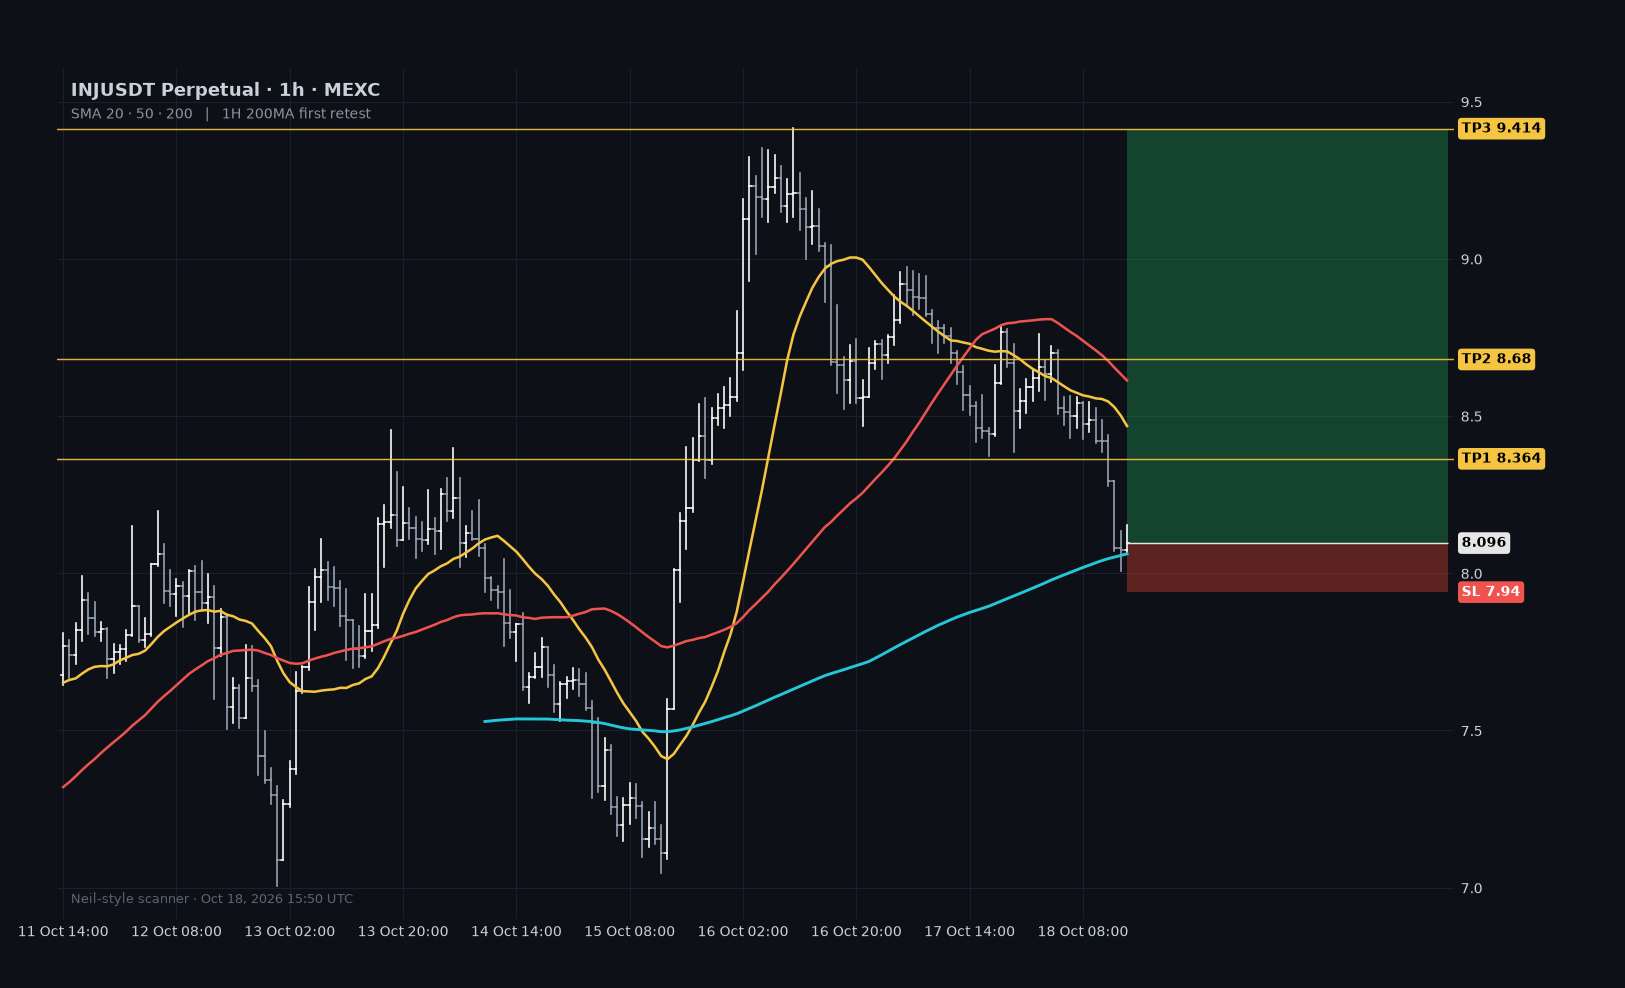
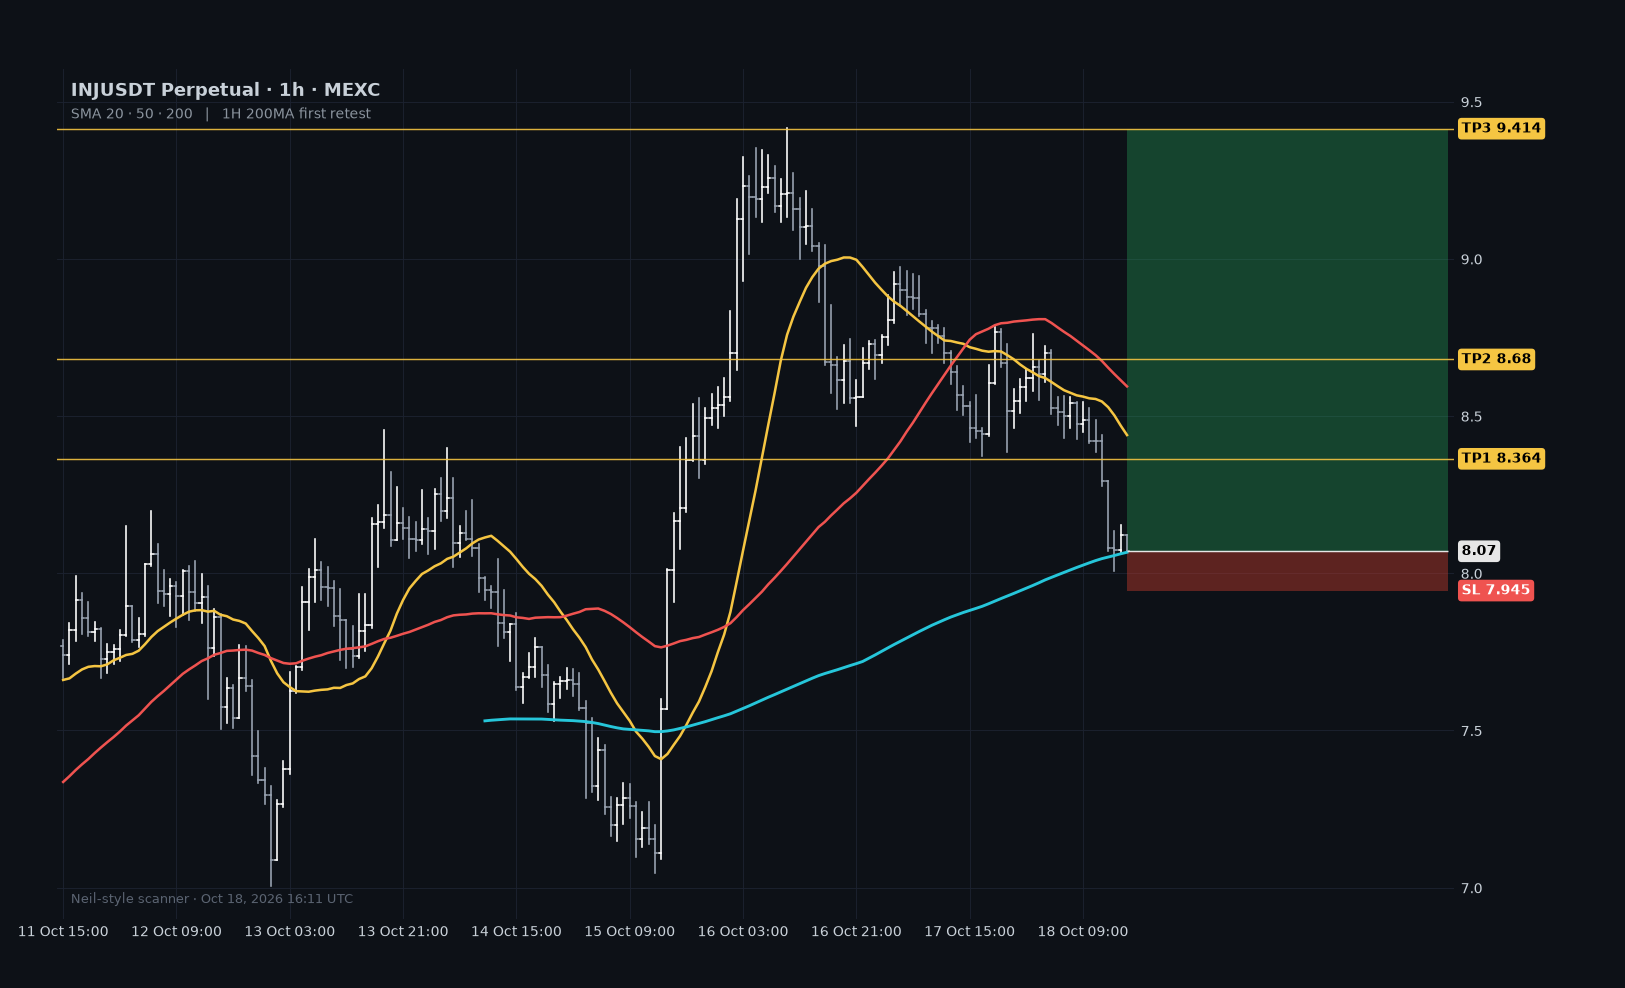
scan 2026-10-18 [skip ci]

diff --git a/output/report.md b/output/report.md
@@ -1,55 +1,53 @@
 # Neil-style setups — 2026-10-18
 
-**BTC context:** BTC chopping around its 4H MAs — no fresh breakdown, but keep size normal and stops honest. (3d -1.6%)
+**BTC context:** BTC chopping around its 4H MAs — no fresh breakdown, but keep size normal and stops honest. (3d -1.5%)
 
 Scanned 126 USDT perps; 7 raw setups; showing top 3.
 
-## 1. XMR — Daily range breakout  (score 7.9)
+## 1. XMR — Daily range breakout  (score 8.1)
 
-> Market long XMR here at CMP (581.23). No DCA, 4H close under 557.6 for stops, TPs above — TP1 634.9 (2.3R) · TP2 667.9 (3.7R) · TP3 700.9 (5.1R). Once TP1 hits, stops to BE. Daily range breakout — not missing this one, still looks good.
+> Market long XMR here at CMP (586.83). No DCA, 4H close under 557.6 for stops, TPs above — TP1 634.9 (1.6R) · TP2 680.3 (3.2R) · TP3 730 (4.9R). Once TP1 hits, stops to BE. Daily range breakout — not missing this one, still looks good.
 
-Risk to stop: 4.07% · TP1 2.3R · TP2 3.7R · TP3 5.1R
+Risk to stop: 4.98% · TP1 1.6R · TP2 3.2R · TP3 4.9R
 
 Why it qualifies:
 - daily close above the 20-day range high 572 (0 day(s) ago) and holding
 - range depth 11% → measured move ~630.61
 - above the 1H/4H/daily 200MA
-- 7d: +7.2% vs BTC -3.1% (RS +10.3%)
+- 7d: +9.1% vs BTC -3.1% (RS +12.2%)
 
 ![chart](output/charts/2026-10-18_XMR.png)
 
-## 2. INJ — 1H 200MA first retest  (score 7.8)
+## 2. INJ — 1H 200MA first retest  (score 7.9)
 
-> Market long INJ here at CMP (8.096). No DCA, 1H close under 7.94 for stops, TPs above — TP1 8.364 (1.7R) · TP2 8.68 (3.7R) · TP3 9.414 (8.4R). Once TP1 hits, stops to BE. First retest of the 200MA after the push — think we get a bounce.
+> Market long INJ here at CMP (8.07). No DCA, 1H close under 7.945 for stops, TPs above — TP1 8.364 (2.4R) · TP2 8.68 (4.9R) · TP3 9.414 (10.8R). Once TP1 hits, stops to BE. First retest of the 200MA after the push — think we get a bounce.
 
-Risk to stop: 1.93% · TP1 1.7R · TP2 3.7R · TP3 8.4R
+Risk to stop: 1.55% · TP1 2.4R · TP2 4.9R · TP3 10.8R
 
 Why it qualifies:
-- first tap of the rising 1H 200MA (8.06187) after a 22% extension above it
+- first tap of the rising 1H 200MA (8.0669) after a 22% extension above it
 - impulse high at 9.415 is the natural first target
 - above the 1H/4H/daily 200MA
-- 7d: +3.6% vs BTC -3.1% (RS +6.7%)
+- 7d: +4.0% vs BTC -3.1% (RS +7.2%)
 
 ![chart](output/charts/2026-10-18_INJ.png)
 
-## 3. ERA — 4H SR flip / retest  (score 7.7)
+## 3. CL — Daily range breakout  (score 7.7)
 
-> Market long ERA here at CMP (0.07057). No DCA, 4H close under 0.06926 for stops, TPs above — TP1 0.07292 (1.8R) · TP2 0.07477 (3.2R) · TP3 0.07819 (5.8R). Once TP1 hits, stops to BE. SR flip trade — level flipped and holding, looking for continuation higher.
+> Market long CL here at CMP (98.95). No DCA, 4H close under 94.32 for stops, TPs above — TP1 106.8 (1.7R) · TP2 116.3 (3.8R) · TP3 122.7 (5.1R). Once TP1 hits, stops to BE. Daily range breakout — not missing this one, still looks good.
 
-Risk to stop: 1.86% · TP1 1.8R · TP2 3.2R · TP3 5.8R
+Risk to stop: 4.68% · TP1 1.7R · TP2 3.8R · TP3 5.1R
 
 Why it qualifies:
-- 4H closed above the 0.07011 resistance 3 bars ago and is holding above it, low already retested the level
-- level rejected price 19x before the flip
-- reclaim bar volume 2.1x the 20-bar average
-- above the 1H/4H 200MA
-- still under the daily 200MA
-- 7d: -8.5% vs BTC -3.1% (RS -5.4%)
+- daily close above the 20-day range high 96.74 (2 day(s) ago) and holding
+- range depth 11% → measured move ~106.58
+- above the 1H/4H/daily 200MA
+- 7d: +9.5% vs BTC -3.1% (RS +12.6%)
 
-![chart](output/charts/2026-10-18_ERA.png)
+![chart](output/charts/2026-10-18_CL.png)
 
 ## Watchlist (next in line)
 
-- CL — daily_breakout (score 7.61)
+- ERA — sr_flip (score 7.57)
 - SKDD — daily_breakout (score 7.26)
-- SOXS — daily_breakout (score 7.2)
+- SOXS — daily_breakout (score 7.21)
